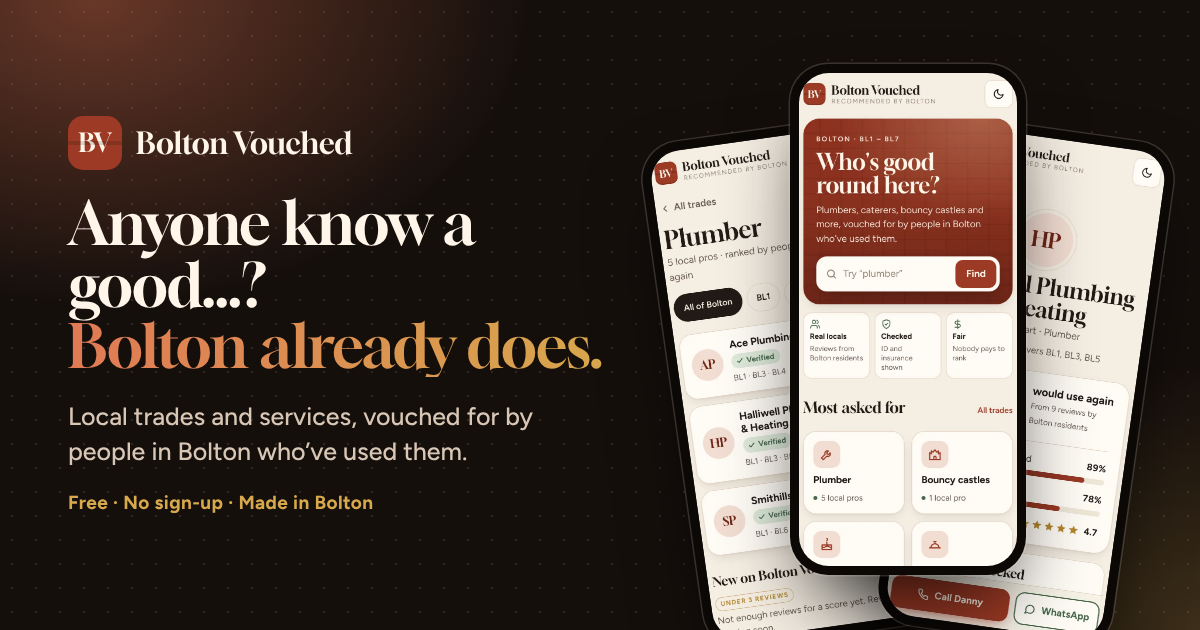
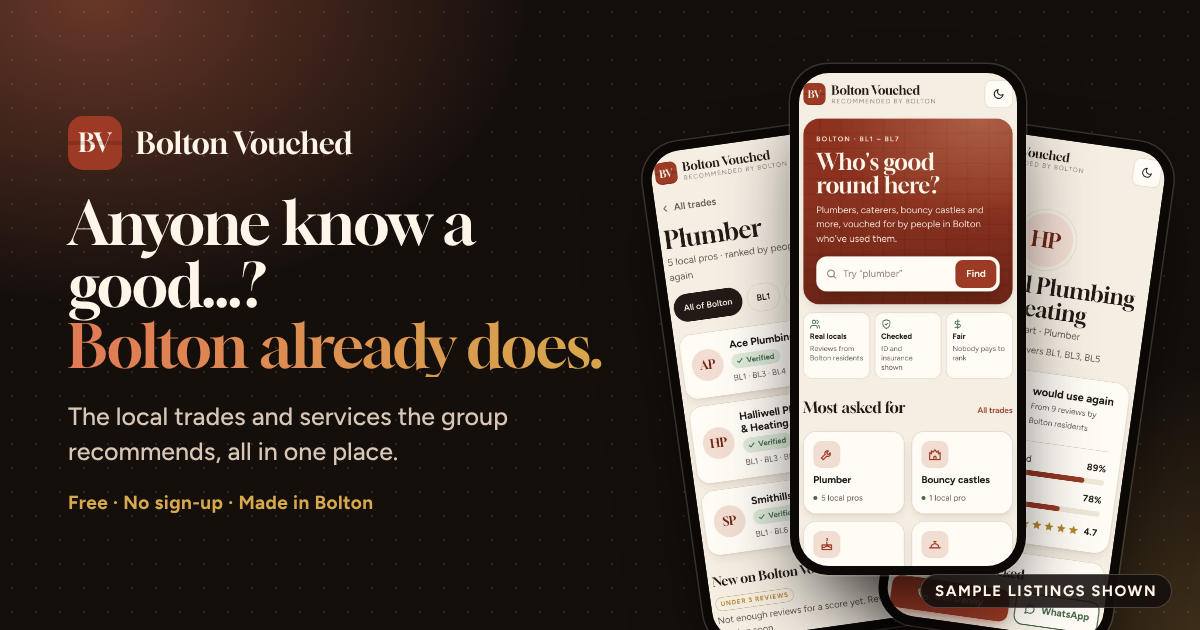
fix: honest review wording and sample-listing labels on the showcase
Reviews aren't live yet, so ranking and score claims now say "once reviews
open" (hero, how it works, trio, deck, FAQ, fair by design, traders, social
description). The phone mockups show made-up figures, so the hero fan and the
traders phone carry a "Sample listings shown" caption, their alt text starts
"Sample listing", and public/social.png has a "Sample listings shown" tag.

Claude-Session: https://claude.ai/code/session_01UbwBMeA46suPzcBVeSvvs2

Changed region(s): [[0.0617, 0.6333, 0.4317, 0.754], [0.7708, 0.9048, 0.9867, 0.9651]]

diff --git a/app/(site)/page.tsx b/app/(site)/page.tsx
@@ -19,8 +19,8 @@ const STEPS: { icon: IconName; title: string; text: string }[] = [
   },
   {
     icon: "people",
-    title: "See who Bolton rates",
-    text: "People are ranked by how many who've used them would use them again, with what we've checked beside them.",
+    title: "See who Bolton recommends",
+    text: "Every listing shows what we've checked. Once reviews open, people are ranked by how many would use them again.",
   },
   { icon: "phone", title: "Call or WhatsApp", text: "One tap from their page. No sign-up, no forms, no middleman." },
 ];
@@ -41,7 +41,7 @@ const TRADER_POINTS: { icon: IconName; title: string; soon?: boolean; text: stri
   {
     icon: "scales",
     title: "Nobody pays to rank",
-    text: "Not you, not the firm down the road. Your place comes from what your customers say.",
+    text: "Not you, not the firm down the road. Once reviews open, your place will come from what your customers say.",
   },
 ];
 
@@ -49,7 +49,7 @@ const FAIR: { icon: IconName; title: string; text: string }[] = [
   {
     icon: "star",
     title: "Ranked by people",
-    text: "The order comes from how many would use someone again. Not adverts, not who shouts loudest in the group.",
+    text: "Once reviews open, the order will come from how many would use someone again. Not adverts, and not who shouts loudest in the group.",
   },
   {
     icon: "shield",
@@ -148,8 +148,9 @@ export default function ShowcasePage() {
             <span>Anyone know a good…?</span> <span className="s-grad">Bolton already does.</span>
           </h1>
           <p className="s-lede s-in s-in-3">
-            Every week someone in the group asks for a plumber, a cleaner or a cake. Bolton Vouched keeps the answers:
-            local people, ranked by the neighbours who&apos;d use them again.
+            Every week someone in the group asks for a plumber, a cleaner or a cake. Bolton Vouched keeps the answers in
+            one place. Once reviews open, people will be ranked by how many neighbours would use them again, and nobody
+            can pay to move up.
           </p>
           <div className="s-ctas s-in s-in-4">
             <Link href={PLATFORM} className="s-btn s-btn-primary">
@@ -164,24 +165,25 @@ export default function ShowcasePage() {
           <div className="s-fan phone-fan">
             <Phone
               shot="category"
-              alt="Plumbers in Bolton, ranked by would use again"
+              alt="Sample listing: a list of plumbers on Bolton Vouched"
               className="l"
               sizes="(min-width: 880px) 262px, 38vw"
             />
             <Phone
               shot="home"
-              alt="The Bolton Vouched home screen: Who's good round here?"
+              alt="Sample listing: the Bolton Vouched home screen, Who's good round here?"
               className="c"
               sizes="(min-width: 880px) 290px, 44vw"
               eager
             />
             <Phone
               shot="profile"
-              alt="A plumber's profile: 89% would use again"
+              alt="Sample listing: a plumber's profile with made-up review figures"
               className="r"
               sizes="(min-width: 880px) 262px, 38vw"
             />
           </div>
+          <p className="s-sample">Sample listings shown</p>
 
           <ul className="s-trio">
             <li className="reveal">
@@ -190,7 +192,9 @@ export default function ShowcasePage() {
             </li>
             <li className="reveal" style={d(0.1)}>
               <h3>Would they use them again?</h3>
-              <p>One honest number from people who&apos;ve had the work done, not a wall of stars.</p>
+              <p>
+                Once reviews open: one honest number from people who&apos;ve had the work done, not a wall of stars.
+              </p>
             </li>
             <li className="reveal" style={d(0.2)}>
               <h3>Call or WhatsApp</h3>
@@ -315,9 +319,10 @@ export default function ShowcasePage() {
             <div className="reveal">
               <Phone
                 shot="consent"
-                alt="The page a trader sees before agreeing: here's how you'll appear on Bolton Vouched"
+                alt="Sample listing: the page a trader sees before agreeing, here's how you'll appear on Bolton Vouched"
                 sizes="(min-width: 880px) 300px, 72vw"
               />
+              <p className="s-sample">Sample listing shown</p>
             </div>
             <div>
               <ul className="s-points">

diff --git a/components/site/content.ts b/components/site/content.ts
@@ -41,7 +41,7 @@ export type DeckCard = {
 export const DECK: DeckCard[] = [
   {
     shot: "home",
-    alt: "The Bolton Vouched home screen with a search box and the most asked-for trades",
+    alt: "Sample listing: the Bolton Vouched home screen with a search box and the most asked-for trades",
     crop: "top",
     tone: "brick",
     title: "Find by trade",
@@ -49,7 +49,7 @@ export const DECK: DeckCard[] = [
   },
   {
     shot: "category-area",
-    alt: "A list of plumbers filtered to the BL3 area",
+    alt: "Sample listing: a list of plumbers filtered to the BL3 area",
     crop: "top",
     tone: "gold",
     title: "Just your area",
@@ -57,15 +57,15 @@ export const DECK: DeckCard[] = [
   },
   {
     shot: "profile",
-    alt: "A plumber's profile showing 89% would use again from 9 reviews",
+    alt: "Sample listing: a plumber's profile with made-up review figures",
     crop: "top",
     tone: "sage",
     title: "Would they use them again?",
-    text: "One honest number up top, with turned up on time, stuck to the quote and quality of work underneath.",
+    text: "Once reviews open, profiles lead with one honest number, with on time, on price and quality of work underneath.",
   },
   {
     shot: "profile-checks",
-    alt: "The 'What we've checked' card: ID checked and public liability insurance, with the month checked",
+    alt: "Sample listing: the 'What we've checked' card: ID checked and public liability insurance, with the month checked",
     crop: "top",
     tone: "ink",
     title: "What we've checked",
@@ -73,7 +73,7 @@ export const DECK: DeckCard[] = [
   },
   {
     shot: "profile-contact",
-    alt: "An electrician's profile with Call and WhatsApp buttons along the bottom",
+    alt: "Sample listing: an electrician's profile with Call and WhatsApp buttons along the bottom",
     crop: "bottom",
     tone: "brick",
     title: "Call or WhatsApp in one tap",
@@ -85,7 +85,7 @@ export const DECK: DeckCard[] = [
     crop: "top",
     tone: "gold",
     title: "Fair ranking",
-    text: "Nobody can pay to rank higher. No score until someone has three reviews, so a lucky one can't put anyone on top.",
+    text: "Nobody can pay to rank higher. Once reviews open, nobody gets a score until they have three, so a lucky one can't put anyone on top.",
   },
   {
     shot: "home-howto",
@@ -111,7 +111,7 @@ export const FAQ: Faq[] = [
     q: "How are people ranked?",
     a: [
       [
-        "By how many reviewers said they would use them again. Nobody gets a score until they have three reviews; until then they're shown as new. Newer reviews count for more, and a handful of reviews can't put anyone on top.",
+        "Reviews are coming soon, so for now everyone is listed as new. Once reviews open, people will be ranked by how many reviewers said they'd use them again. Nobody gets a score until they have three reviews, newer reviews will count for more, and a handful of reviews can't put anyone on top. Nobody can pay to move up.",
       ],
       ["The full detail is on ", { href: "/how-ratings-work", label: "how ratings work" }, "."],
     ],

diff --git a/e2e/site.spec.ts b/e2e/site.spec.ts
@@ -21,6 +21,14 @@ test("/ shows the hero and sends people to the platform", async ({ page }) => {
   const shot = page.locator(".phone-fan img").first();
   await expect(shot).toBeVisible();
   expect(await shot.evaluate((img: HTMLImageElement) => img.complete && img.naturalWidth > 0)).toBe(true);
+  // The screenshots show made-up listings, and say so.
+  for (const alt of await page
+    .locator(".phone-fan img")
+    .evaluateAll((imgs) => imgs.map((i) => i.getAttribute("alt")))) {
+    expect(alt).toMatch(/^Sample listing/);
+  }
+  await expect(page.locator(".phone-fan + .s-sample")).toHaveText("Sample listings shown");
+  await expect(page.locator("#traders")).toContainText("Sample listing shown");
 });
 
 test("nav anchors scroll to their sections", async ({ page }) => {

diff --git a/app/(site)/site.css b/app/(site)/site.css
@@ -142,6 +142,8 @@ body:has(.site){background:#150F0C}
   .s-fan .s-phone.r{transform:translateX(78%) rotate(7deg)}
 }
 
+.s-sample{position:relative; z-index:4; margin:-6px auto 22px !important; text-align:center; font-size:13px; font-weight:700; letter-spacing:.12em; text-transform:uppercase; color:var(--s-ink-3)}
+.s-traders .s-sample{margin:18px auto 0 !important}
 .s-trio{display:grid; gap:26px; margin:6px auto 0; padding:0; list-style:none; max-width:980px; position:relative; z-index:4}
 .s-trio li{text-align:center}
 .s-trio h3{font-size:24px; line-height:1.15}

diff --git a/app/(site)/layout.tsx b/app/(site)/layout.tsx
@@ -7,7 +7,7 @@ import { SiteNav } from "@/components/site/SiteNav";
 
 const TITLE = "Bolton Vouched · Who's good round here?";
 const DESCRIPTION =
-  "Anyone know a good…? Bolton already does. Local trades and services, vouched for by people in Bolton who've used them. Free, no sign-up.";
+  "Anyone know a good…? Bolton already does. The local trades and services the group recommends, in one place. Free, no sign-up.";
 
 export const metadata: Metadata = {
   metadataBase: new URL(process.env.NEXT_PUBLIC_SITE_URL || "https://boltonvouched.ysbdesigns.uk"),
